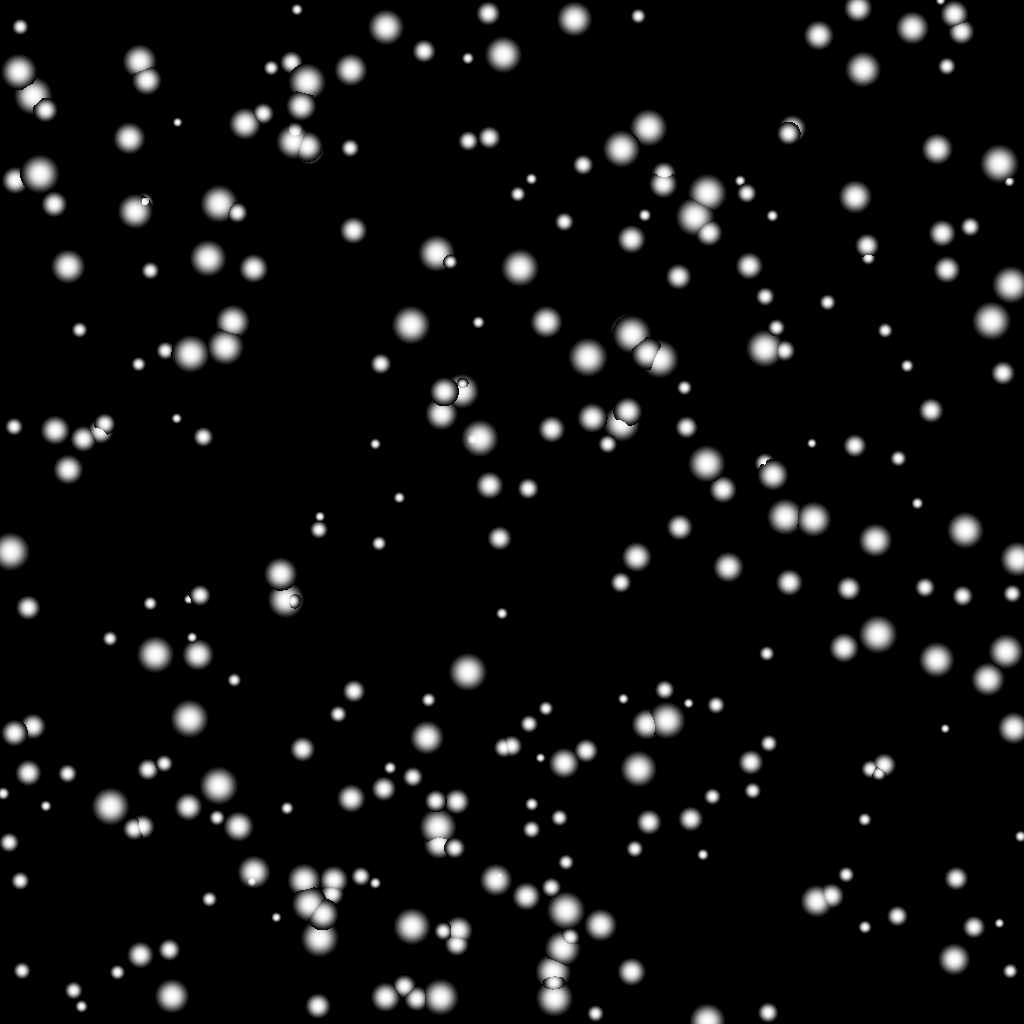
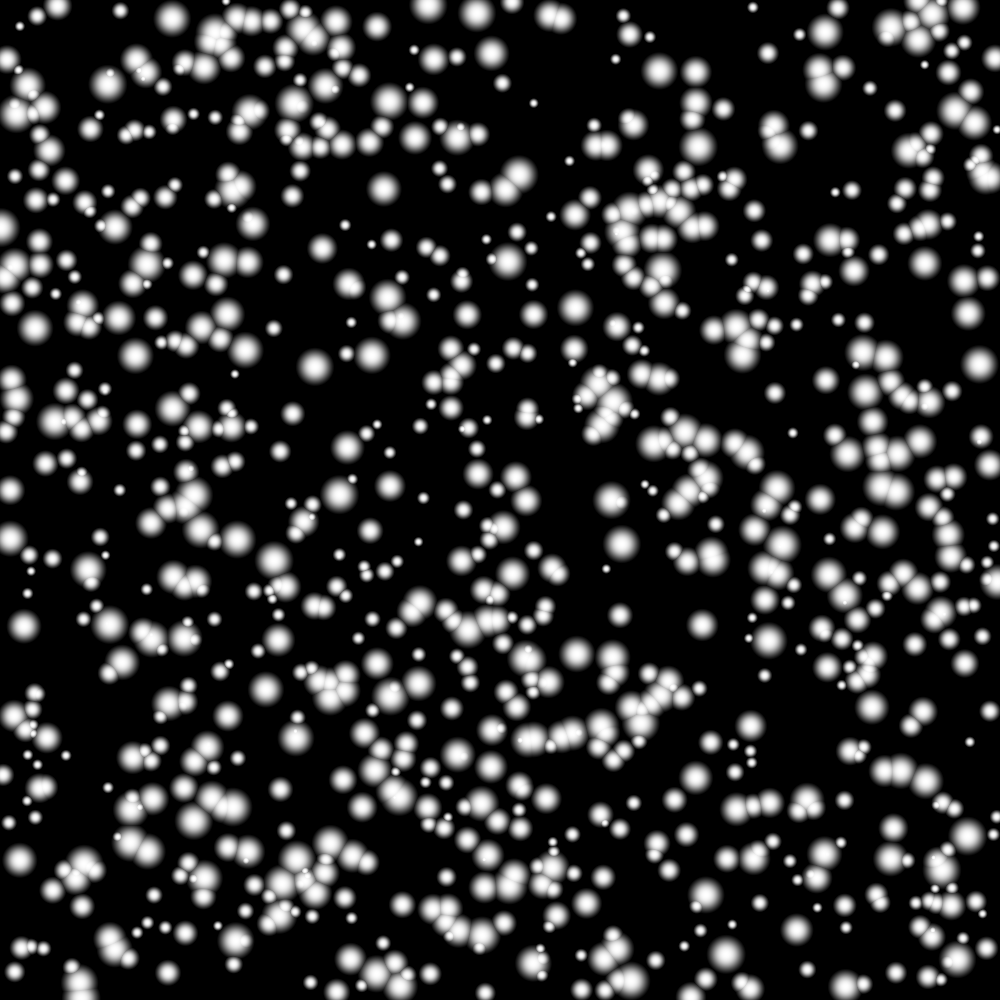
gpu machine temp

diff --git a/nns/dog/dog.py b/nns/dog/dog.py
@@ -1,5 +1,7 @@
 import math
 import numbers
+import glob
+import time
 
 import numpy as np
 import torch
@@ -10,7 +12,7 @@ from skimage.io import imread
 from torch import nn
 from torch.nn import functional as F
 
-from sk_image.blob import make_circles_fig
+#from sk_image.blob import make_circles_fig
 from sk_image.enhance_contrast import stretch_composite_histogram
 from sk_image.preprocess import make_figure
 
@@ -101,9 +103,10 @@ class DifferenceOfGaussians(nn.Module):
         # k such that min_sigma*(sigma_ratio**k) > max_sigma
         self.k = int(np.log(max_sigma / min_sigma) / np.log(sigma_ratio) + 1)
         # a geometric progression of standard deviations for gaussian kernels
-        self.sigma_list = torch.FloatTensor(
-            [min_sigma * (sigma_ratio ** i) for i in range(self.k + 1)]
-        )
+        self.sigma_list = nn.Parameter(torch.from_numpy(
+            np.asarray([min_sigma * (sigma_ratio ** i) for i in range(self.k + 1)])
+        ))
+        print(len(self.sigma_list))
         # max is performed in order to accommodate largest filter
         self.max_radius = int(truncate * max(self.sigma_list) + 0.5)
         self.gaussian_pyramid = nn.Conv2d(
@@ -130,17 +133,37 @@ class DifferenceOfGaussians(nn.Module):
         )
 
     def forward(self, input: torch.Tensor) -> torch.Tensor:
+        start = time.monotonic()
         padded_input = nn.ConstantPad2d(self.max_radius, 0)(input)
+        torch.cuda.synchronize()
+        print("pad time ", time.monotonic()-start)
+
+        start = time.monotonic()
         gaussian_images = self.gaussian_pyramid(padded_input)
+        torch.cuda.synchronize()
+        print("gauss pyramid time ", time.monotonic()-start)
         # computing difference between two successive Gaussian blurred images
         # multiplying with average standard deviation provides scale invariance
+
+        start = time.monotonic()
         dog_images = (gaussian_images[0][:-1] - gaussian_images[0][1:]) * (
-            self.sigma_list[: self.k][np.newaxis, np.newaxis].T
+            self.sigma_list[: self.k].unsqueeze(0).unsqueeze(0).T
         )
+        torch.cuda.synchronize()
+        print("differences time", time.monotonic()-start)
+
+        start = time.monotonic()
         image_max = self.max_pool(dog_images.unsqueeze(0))
+        torch.cuda.synchronize()
+        print("maxpool time", time.monotonic()-start)
+
+        start = time.monotonic()
         mask = dog_images == image_max.squeeze(0)
         mask &= dog_images > self.threshold
+        torch.cuda.synchronize()
+        print("mask time", time.monotonic()-start)
 
+        start = time.monotonic()
         if self.exclude_border:
             for i in range(mask.ndim):
                 # mask[(slice(None),) * 0 + (slice(None, padding),)] is the same as
@@ -150,8 +173,16 @@ class DifferenceOfGaussians(nn.Module):
                 # ...
                 mask[(slice(None),) * i + (slice(None, self.padding),)] = False
                 mask[(slice(None),) * i + (slice(-self.padding, None),)] = False
+        torch.cuda.synchronize()
+        print("exclude border time", time.monotonic()-start)
 
-        local_maxima = mask.nonzero()
+        #start = time.monotonic()
+        #mask = mask.cpu().nonzero()
+        #print("copy to memory time", time.monotonic()-start)
+        start = time.monotonic()
+        local_maxima = np.nonzero(mask)
+        torch.cuda.synchronize()
+        print("nonzer time", time.monotonic()-start)
 
         if local_maxima.size == 0:
             return torch.empty((0, 3))
@@ -166,17 +197,22 @@ class DifferenceOfGaussians(nn.Module):
 
 
 def torch_dog(
-    img_tensor, min_sigma=1, max_sigma=30, sigma_ratio=1.2, prune=True, overlap=1
+    img_tensor, min_sigma=1, max_sigma=10, sigma_ratio=1.1, prune=True, overlap=1
 ):
     with torch.no_grad():
         dog = DifferenceOfGaussians(
-            min_sigma=min_sigma, max_sigma=max_sigma, sigma_ratio=sigma_ratio
-        )
+            min_sigma=min_sigma, max_sigma=max_sigma, sigma_ratio=sigma_ratio, exclude_border=False
+        ).to("cuda")
         dog.eval()
+        print(dog)
+        start = time.monotonic()
         local_maxima = dog(img_tensor)
-
+        print("small dog time ", time.monotonic()-start)
     # flip to abide by _prune_blobs expectations
-    local_maxima = local_maxima.flip(1).detach().numpy()
+
+    start = time.monotonic()
+    local_maxima = local_maxima.flip(1).cpu().numpy()
+    print("gpu back shuffle time", time.monotonic()-start)
     if prune:
         blobs = _prune_blobs(local_maxima, overlap, sigma_dim=1)
     else:
@@ -198,19 +234,36 @@ def torch_dog_test():
 
 
 def torch_dog_img_test():
-    image_pth = "/Users/maksim/dev_projects/merf/simulation/screenshot.png"
-
+    image_pth = "/home/maksim/dev_projects/merf/merf/simulation/screenshot.png"
+    start = time.monotonic()
     img_orig = imread(image_pth, as_gray=True)
     # values have to be float and also between 0,1 for peak finding to work
     img_orig = img_as_float(img_orig)
     filtered_img = gaussian(img_orig, sigma=1)
     s2 = stretch_composite_histogram(filtered_img)
-    t_image = torch.from_numpy(s2).float().unsqueeze(0).unsqueeze(0)
-    blobs = torch_dog(t_image, prune=True)
+    start = time.monotonic()
+    t_image = torch.from_numpy(s2).float().unsqueeze(0).unsqueeze(0).to("cuda")
+    print("gpu shuffle time ", time.monotonic()-start)
+    blobs = torch_dog(t_image, prune=False)
+    print("whole dog time ", time.monotonic()-start)
     print("blobs: ", len(blobs))
-    make_circles_fig(s2, blobs).show()
+    # make_circles_fig(s2, blobs).show()
+
+def main():
+    for image_pth in glob.glob("/home/maksim/dev_projects/merf/merf/RawData/*.TIF"):
+        start = time.monotonic()
+        img_orig = imread(image_pth, as_gray=True)
+        # values have to be float and also between 0,1 for peak finding to work
+        img_orig = img_as_float(img_orig)
+        filtered_img = gaussian(img_orig, sigma=1)
+        s2 = stretch_composite_histogram(filtered_img)
+        t_image = torch.from_numpy(s2).float().unsqueeze(0).unsqueeze(0).to("cuda")
+        blobs = torch_dog(t_image, prune=True)
+        print(time.monotonic()-start)
+        print("blobs: ", len(blobs))
 
 
 if __name__ == "__main__":
     # torch_dog_test()
     torch_dog_img_test()
+    # main()

diff --git a/simulation/cloud.py b/simulation/cloud.py
@@ -1,0 +1,132 @@
+# -----------------------------------------------------------------------------
+# Copyright (c) 2009-2016 Nicolas P. Rougier. All rights reserved.
+# Distributed under the (new) BSD License.
+# -----------------------------------------------------------------------------
+import numpy as np
+from glumpy import app, gl, gloo, glm
+
+vertex = """
+#version 120
+
+uniform mat4 model;
+uniform mat4 view;
+uniform mat4 projection;
+uniform float linewidth;
+uniform float antialias;
+
+attribute vec4  fg_color;
+attribute vec4  bg_color;
+attribute float radius;
+attribute vec3  position;
+
+varying float v_pointsize;
+varying float v_radius;
+varying vec4  v_fg_color;
+varying vec4  v_bg_color;
+void main (void)
+{
+    v_radius = radius;
+    v_fg_color = fg_color;
+    v_bg_color = bg_color;
+
+    gl_Position = projection * view * model * vec4(position,1.0);
+    gl_PointSize = 2 * (v_radius + linewidth + 1.5*antialias);
+}
+"""
+
+fragment = """
+#version 120
+
+uniform float linewidth;
+uniform float antialias;
+
+varying float v_radius;
+varying vec4  v_fg_color;
+varying vec4  v_bg_color;
+
+float marker(vec2 P, float size)
+{
+   const float SQRT_2 = 1.4142135623730951;
+   float x = SQRT_2/2 * (P.x - P.y);
+   float y = SQRT_2/2 * (P.x + P.y);
+
+   float r1 = max(abs(x)- size/2, abs(y)- size/10);
+   float r2 = max(abs(y)- size/2, abs(x)- size/10);
+   float r3 = max(abs(P.x)- size/2, abs(P.y)- size/10);
+   float r4 = max(abs(P.y)- size/2, abs(P.x)- size/10);
+   return min( min(r1,r2), min(r3,r4));
+}
+
+
+void main()
+{
+    float r = (v_radius + linewidth + 1.5*antialias);
+    float t = linewidth/2.0 - antialias;
+    float signed_distance = length(gl_PointCoord.xy - vec2(0.5,0.5)) * 2 * r - v_radius;
+//    float signed_distance = marker((gl_PointCoord.xy - vec2(0.5,0.5))*r*2, 2*v_radius);
+    float border_distance = abs(signed_distance) - t;
+    float alpha = border_distance/antialias;
+    alpha = exp(-alpha*alpha);
+
+    // Inside shape
+    if( signed_distance < 0 ) {
+        // Fully within linestroke
+        if( border_distance < 0 ) {
+            gl_FragColor = v_fg_color;
+        } else {
+            gl_FragColor = mix(v_bg_color, v_fg_color, alpha);
+        }
+    // Outside shape
+    } else {
+        // Fully within linestroke
+        if( border_distance < 0 ) {
+            gl_FragColor = v_fg_color;
+        } else if( abs(signed_distance) < (linewidth/2.0 + antialias) ) {
+            gl_FragColor = vec4(v_fg_color.rgb, v_fg_color.a * alpha);
+        } else {
+            discard;
+        }
+    }
+}
+"""
+
+theta, phi = 0,0
+app.use("glfw")
+window = app.Window(width=800, height=800, color=(1,1,1,1))
+
+
+n = 1000000
+program = gloo.Program(vertex, fragment, count=n)
+view = np.eye(4, dtype=np.float32)
+glm.translate(view, 0, 0, -5)
+
+program['position'] = 0.35 * np.random.randn(n,3)
+program['radius']   = np.random.uniform(5,10,n)
+program['fg_color'] = 0,0,0,1
+colors = np.random.uniform(0.75, 1.00, (n, 4))
+colors[:,3] = 1
+program['bg_color'] = colors
+program['linewidth'] = 1.0
+program['antialias'] = 1.0
+program['model'] = np.eye(4, dtype=np.float32)
+program['projection'] = np.eye(4, dtype=np.float32)
+program['view'] = view
+
+@window.event
+def on_draw(dt):
+    global theta, phi, translate
+    window.clear()
+    program.draw(gl.GL_POINTS)
+    theta += .5
+    phi += .5
+    model = np.eye(4, dtype=np.float32)
+    glm.rotate(model, theta, 0, 0, 1)
+    glm.rotate(model, phi, 0, 1, 0)
+    program['model'] = model
+
+@window.event
+def on_resize(width,height):
+    program['projection'] = glm.perspective(45.0, width / float(height), 1.0, 1000.0)
+
+gl.glEnable(gl.GL_DEPTH_TEST)
+app.run()

diff --git a/sk_image/blob.py b/sk_image/blob.py
@@ -1,3 +1,4 @@
+import time
 from math import sqrt
 
 import matplotlib.pyplot as plt
@@ -10,7 +11,7 @@ from skimage.filters import sobel, gaussian, threshold_otsu
 from skimage.io import imread
 from skimage.transform import hough_circle, hough_circle_peaks
 
-from simulation.simulate import create_circular_mask
+# from simulation.simulate import create_circular_mask
 
 # Load picture and detect edges
 from sk_image.enhance_contrast import stretch_composite_histogram
@@ -117,17 +118,19 @@ def area(img, blob):
 
 
 def main():
-    image_pth = "/Users/maksim/dev_projects/merf/simulation/screenshot.png"
-
+    image_pth = "/home/maksim/dev_projects/merf/merf/simulation/screenshot.png"
     img_orig = imread(image_pth, as_gray=True)
     filtered_img = gaussian(img_orig, sigma=1)
     s2 = stretch_composite_histogram(filtered_img)
 
+    start = time.monotonic()
     blobs = blob_dog(
-        s2, max_sigma=20, min_sigma=1, threshold=0.001, overlap=0.8, sigma_ratio=1.6
+        s2, max_sigma=100, min_sigma=1, threshold=0.001, overlap=1, sigma_ratio=1.1
     )
+    print("dog time ", time.monotonic() - start)
     blobs[:, 2] = blobs[:, 2] * sqrt(2)
-    make_circles_fig(s2, blobs).show()
+    print(len(blobs))
+    # make_circles_fig(s2, blobs).show()
     #
     # plt.hist([r for (_, _, r) in blobs], bins=256)
     # plt.show()

diff --git a/simulation/simulate.py b/simulation/simulate.py
@@ -47,7 +47,6 @@ if __name__ == "__main__":
 
           gl_FragDepth = 0.5*v_center.z + 0.5*(1.0 - z);
 
-
           vec3 color = vec3(1.0, 1.0, 1.0);
           vec3 normal = normalize(vec3(p.xy, z));
           vec3 direction = normalize(vec3(0.0, 0.0, 1.0));
@@ -57,14 +56,14 @@ if __name__ == "__main__":
        } 
     """
 
-    window_size = 1024
+    window_size = 1000
 
     np.random.seed(1)
-    V = np.zeros(300, [("center", np.float32, 3), ("radius", np.float32, 1)])
+    V = np.zeros(1000, [("center", np.float32, 3), ("radius", np.float32, 1)])
     V["center"] = np.random.uniform(0, window_size, (len(V), 3))
-    V["center"][:, 2] = np.random.uniform(0, 1, len(V))
+    V["center"][:, 2] = np.random.uniform(0, 0, len(V))
     V["radius"] = np.random.uniform(5, 20, len(V))
-
+    app.use("glfw")
     window = app.Window(window_size, window_size)
 
     @window.event
